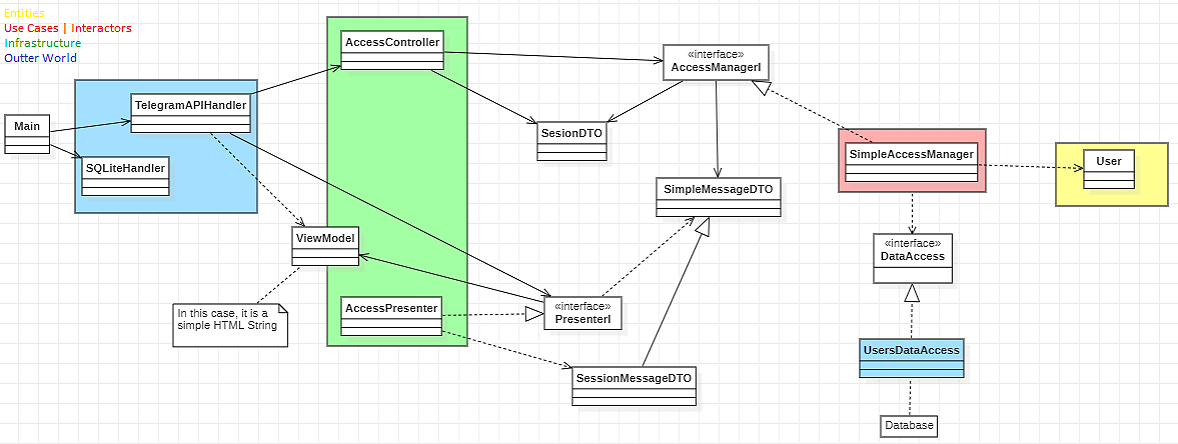
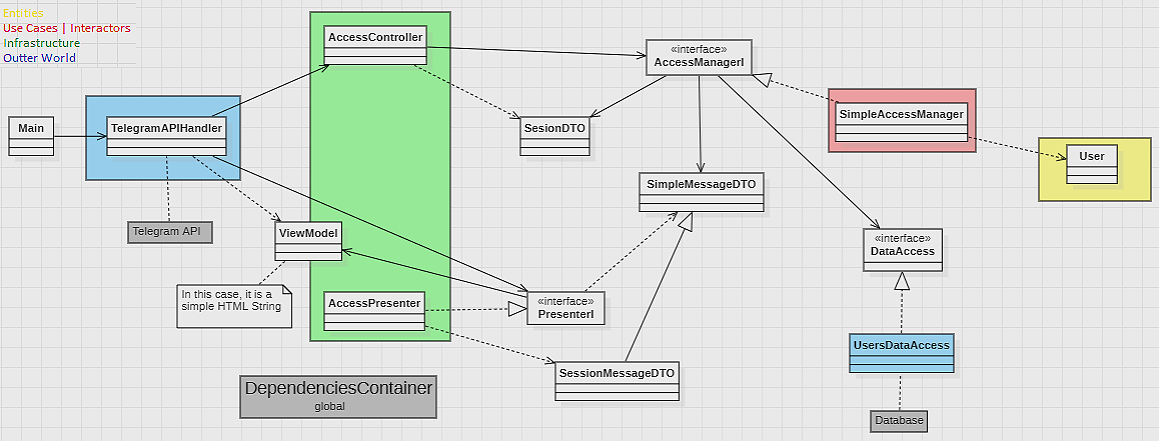
Dependencies injection with 'dependency_injector' framework.
* add a class to handle the container 'DependenciesContainer'.
* add all needed dependencies in said container
* update readme to include a brief mention to this.
* update 'dockerfile' to install the new dependency.

diff --git a/DependenciesContainer.py b/DependenciesContainer.py
@@ -1,0 +1,82 @@
+from dependency_injector import containers, providers
+
+import sqlite3
+
+from infrastructure.AccessController import AccessController
+
+def provide_db() -> sqlite3.Connection:
+    """
+    creates and returns an instance of Connection sqlite3.
+    Also, verifies that the database is correctly set up.
+
+    Return
+    ---------
+    sqlite3.Connection
+    """  
+    con = sqlite3.connect("database.db")
+    cur = con.cursor()
+
+    res = cur.execute("SELECT name FROM sqlite_master where name like 'users'")
+    if len(res.fetchall()) == 0:
+        cur.execute("CREATE TABLE users(username text primary key, password text)")
+        print("Users table created successfully")
+    
+    return con
+
+def provide_access_controller(username: str, password: str) -> AccessController:
+    """
+    Creates an AccessController instance. This is used from the container of dependencies with a callable provider
+
+    Parameters
+    -----------
+    username: str
+    password: str
+
+    Return
+    ---------
+    instance: AccessController
+    """
+    from useCases.AccessManager import SimpleAccessManager
+    from outter.DataAccess import UsersDataAccess
+    
+    ses = AccessController.getSession(username, password)
+
+    container = Container(
+        dataAccess = providers.Factory(UsersDataAccess),
+        accessManager = providers.Factory(SimpleAccessManager)
+    )
+
+    c = AccessController(
+        a = container.accessManager(container.dataAccess(), session=ses)
+    )
+
+    return c
+
+class Container(containers.DeclarativeContainer):
+    """
+    Container of dependencies
+
+    Attributes
+    ------------------
+    db:
+        unique instance of SQLite Connection, for "database.db"
+    dataAccess:
+        instance of DataAccessI
+    accessManager:
+        instance of AccessManagerI
+    sAccessController:
+        instance of an AccessController configured with a SimpleAccessManager
+    """
+    from useCases.AccessManager import AccessManagerI
+    from infrastructure.DataAccessI import DataAccessI
+
+    config = providers.Configuration()
+
+    db = providers.Singleton(providers.Callable(provide_db))
+
+    dataAccess = providers.Dependency(instance_of = DataAccessI)
+
+    accessManager = providers.Dependency(instance_of = AccessManagerI)
+
+    sAccessController = providers.Callable(provide_access_controller)
+

diff --git a/infrastructure/AccessController.py b/infrastructure/AccessController.py
@@ -1,7 +1,9 @@
 from dataclasses import dataclass
 
-from useCases.AccessManager import AccessManagerI, SimpleAccessManager, sessionDTO
+from useCases.AccessManager import AccessManagerI, sessionDTO
 from useCases.SimpleMessageDTO import SessionMessageDTO
+
+from dependency_injector.wiring import inject
 
 @dataclass()
 class Mode:
@@ -22,36 +24,50 @@ class AccessController:
 
     Attributes
     ------------
-    __session: sessionDTO
-        contains the data that the use case needs in an easy to read way for it
     __a
         the use case instance
 
     Methods
     ---------
+    @staticmethod
+    getSession(username, passoword) -> sessionDTO:
+        checks the username and password are valid and returns a sessionDTO
     access(mode):
         calls the corresponding function of the use case according to the mode
     """
 
-    __session: sessionDTO
     __a: AccessManagerI
 
-    def __init__(self, username: str, password: str):
+    @inject
+    def __init__(self, a: AccessManagerI):
         """
-        Checks that username and password entered by the user respect the conventions and arrange the data 
-        in an easy way for the use case to read
+        initializes the AccessManager
 
         Parameters
         -----------
+        a: AccessManagerI
+        """
+        self.__a = a
+        
+    @staticmethod
+    def getSession(username: str, password: str) -> sessionDTO:
+        """
+        Checks that username and password entered by the user respect the conventions and arrange the data 
+        in an easy way for the use case to read, returning a sessionDTO
+
+        Parameters:
+        -------------
         username: str
         password: str
+
+        Return:
+        ------------
+        session: sessionDTO
         """
-        if username.isalnum() and password.isalnum(): 
-            self.__session = sessionDTO(username, password)
-            self.__a = SimpleAccessManager(self.__session)
-        else:
-            pass # ERROR
+        if username.isalnum() and password.isalnum():
+            return sessionDTO(username, password)
         
+        return None # ERROR
 
     def access(self, mode: Mode):
         """

diff --git a/useCases/AccessManager.py b/useCases/AccessManager.py
@@ -1,9 +1,8 @@
 from dataclasses import dataclass
 
 from entities import User
-from infrastructure.DataAccessI import DataAccessI
-from outter.DataAccess import UsersDataAccess
 from useCases.SimpleMessageDTO import SessionMessageDTO
+from infrastructure.DataAccessI import DataAccessI
 
 @dataclass(frozen=True)
 class sessionDTO:
@@ -20,6 +19,8 @@ class AccessManagerI:
 
     Attributes
     -----------
+    _dbPersister: DataAccessI
+        instance of DataAccessI to have access to the database
     _session: sessionDTO
         Data of the session to be loaded
     _message
@@ -32,11 +33,13 @@ class AccessManagerI:
     login():
         method that should check that the session is actually saved in the database and if so, log in
     """
+    _dbPersister: DataAccessI
     _session: sessionDTO
     _message: SessionMessageDTO
 
-    def __init__(self, session: sessionDTO):
+    def __init__(self, dbPersister: DataAccessI, session: sessionDTO):
         """initializes the session instance to be loaded"""
+        self._dbPersister = dbPersister
         self._session = session
 
     def signin(self):
@@ -54,21 +57,16 @@ class AccessManagerI:
 
 class SimpleAccessManager(AccessManagerI):
     """Implements AccessManagerI"""
-    __db: DataAccessI
-
-    def __init__(self, session: sessionDTO):
-        self._session = session
-        self.__db = UsersDataAccess()
 
     # Override
     def signin(self):
-        self.__db.save((self._session.user, self._session.password))
+        self._dbPersister.save((self._session.user, self._session.password))
         self.__continue("Signed In")
         
 
     # Override
     def login(self):
-        if self.__db.exists((self._session.user)):
+        if self._dbPersister.exists((self._session.user, )):
             self.__continue("Logged In")
         else:
             pass # ERROR

diff --git a/tests/Tests.py b/tests/Tests.py
@@ -1,26 +1,27 @@
 import unittest  
 import os
-import sqlite3
 
 import sys
+
 SCRIPT_DIR = os.path.dirname(os.path.abspath(__file__))
 sys.path.append(os.path.dirname(SCRIPT_DIR))
 
-from outter.SQLiteHandler import SQLiteHandler
-
-from infrastructure.DataAccessI import DataAccessI
 from outter.DataAccess import UsersDataAccess
+from DependenciesContainer import Container, providers
 
 
 class Tests(unittest.TestCase):  
     def test_db_existence(self):
         """
-        Tests the existence of the database file and its tables
+        Tests the existence of the database file and its tables.
         """
-        db = SQLiteHandler()
         self.assertTrue(os.path.isfile(os.path.relpath("./database.db")), "../database.db no existe")
+        
+        c = Container()
 
-        con = sqlite3.connect("database.db")
+        con = c.db()
+        self.assertTrue(con is c.db(), "singleton for db object is not working")
+
         cur = con.cursor()
 
         res = cur.execute("SELECT name FROM sqlite_master where name like 'users'")
@@ -32,14 +33,14 @@ class Tests(unittest.TestCase):
         """
         Tests the well functioning of the methods of UsersDataAccess class
         """
-        users: DataAccessI
-        users = UsersDataAccess()
-
+        container = Container(dataAccess = providers.Factory(UsersDataAccess))
+        users = container.dataAccess()
+        
         tp = ("testU", "testP")
         users.save(tp)
         self.assertTrue(users.exists(tp), "No se agrego, o no se lee correctamente el registro a la tabla users")
-        users.remove((tp[0]))
-        self.assertFalse(users.exists((tp[0])), "No se elimino el registro de la tabla users")
+        users.remove((tp[0],))
+        self.assertFalse(users.exists(tp), "No se elimino el registro de la tabla users")
 
 
 

diff --git a/outter/TelegramAPIHandler.py b/outter/TelegramAPIHandler.py
@@ -1,5 +1,5 @@
-from infrastructure import AccessController
 import functools
+from dependency_injector import providers
 import logging
 import os
 from typing import Dict
@@ -13,7 +13,9 @@ from telegram.constants import ParseMode
 from telegram.ext import Application, CommandHandler, MessageHandler, ConversationHandler, \
     filters, PicklePersistence, CallbackQueryHandler, InlineQueryHandler, ContextTypes
 
+from infrastructure.AccessController import Mode
 from infrastructure.AccessPresenter import AccessPresenter, PresenterI
+from DependenciesContainer import Container
 
 
 class TelegramAPIHandler:
@@ -58,7 +60,7 @@ class TelegramAPIHandler:
 
     logger: logging.Logger
     
-    mode: AccessController.Mode
+    mode: Mode
     tempUsername: str
     tempPassword: str
 
@@ -127,7 +129,7 @@ class TelegramAPIHandler:
             in this case, call the password(update, context) method
         """
 
-        self.mode = AccessController.Mode(update.message.text == "Sign Up")
+        self.mode = Mode(update.message.text == "Sign Up")
         
         await update.message.reply_text(
             "I see! Please tell me your username",
@@ -184,7 +186,9 @@ class TelegramAPIHandler:
 
         self.tempPassword = update.message.text
 
-        c = AccessController.AccessController(self.tempUsername, self.tempPassword)
+        c = Container().sAccessController(
+            username = self.tempUsername, password = self.tempPassword
+        )
         c.access(self.mode)
 
         presenter: PresenterI

diff --git a/outter/DataAccess.py b/outter/DataAccess.py
@@ -1,9 +1,9 @@
 from infrastructure.DataAccessI import DataAccessI
-
+from DependenciesContainer import Container
 
 class UsersDataAccess(DataAccessI):
     """
-    manage the users table from the database
+    manage the users table from the database 'database.db'
 
     Methods
     --------
@@ -15,7 +15,10 @@ class UsersDataAccess(DataAccessI):
         tries to remove, if it exists, from the users table
     """
 
-    def exists(self, pk: tuple) -> bool:
+    def __init__(self):
+        super().__init__(db = Container().db())
+
+    def exists(self, pk: tuple) -> bool: # documentados en AccessManagerI
         if len(pk) != 1:
             pass # ERROR
 

diff --git a/infrastructure/DataAccessI.py b/infrastructure/DataAccessI.py
@@ -1,9 +1,9 @@
-import sqlite3
+from sqlite3 import Connection, Cursor
 
 
 class DataAccessI:
     """
-    Interface to manage tables from the database
+    Interface to manage tables from a database
 
     Methods
     --------
@@ -15,8 +15,12 @@ class DataAccessI:
         tries to remove, if it exists, from a table
     """
     
-    con = sqlite3.connect("database.db")
-    cur = con.cursor()
+    con: Connection
+    cur: Cursor
+
+    def __init__(self, db: Connection):
+        self.con = db
+        self.cur = self.con.cursor()
 
     def exists(self, pk: tuple) -> bool:
         """

diff --git a/__main__.py b/__main__.py
@@ -1,8 +1,5 @@
-from outter.SQLiteHandler import SQLiteHandler
 from outter.TelegramAPIHandler import TelegramAPIHandler
 
 if __name__ == '__main__':
-    db = SQLiteHandler()
-
     tg = TelegramAPIHandler()
     tg.local()

diff --git a/Readme.md b/Readme.md
@@ -9,8 +9,7 @@ Even though, just to understand the code, here's an overview:
 - If you chose to sign in, it saves that info in the DB. If you chose to log in, it checks that the user actually exists in the DB.
 - If everything is ok, the bot replies with a confirmation message.
 
-*Note: Some abstractions and practices could be skipped because of the simplicity of the project; nevertheless they are implemented.\
-In a real-life scenario, there would be a lot of trade offs between what is best design and what is best for practical purposes. This project intents to be purely theory-based.*
+*Note: Some abstractions and practices (like dependency injection) could be skipped given the simplicity of the project; nevertheless they are implemented, because this project intents to be purely theory-based. In a real-life scenario, there would be a lot of trade offs between what is best design and what is best for practical purposes. *
 
 
 ## Screenshots
@@ -36,6 +35,7 @@ You will find a `tests` package with few unit tests, for now.
  - Practical book: "Implementing the Clean Architecture" by Sebastian Buczynski
  - [Python Telegram API](https://docs.python-telegram-bot.org/en/stable/index.html)
  - [SQLite](https://docs.python.org/3/library/sqlite3.html)
+ - [Dependency-Injector](https://python-dependency-injector.ets-labs.org/index.html)
 
 
 ## License
